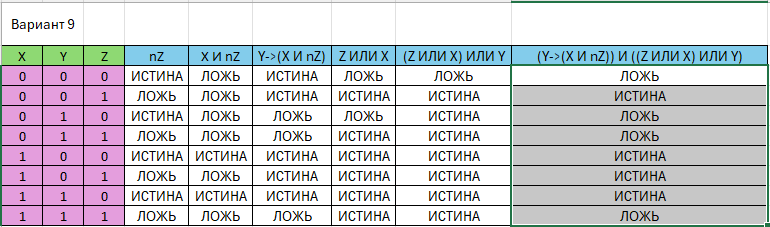
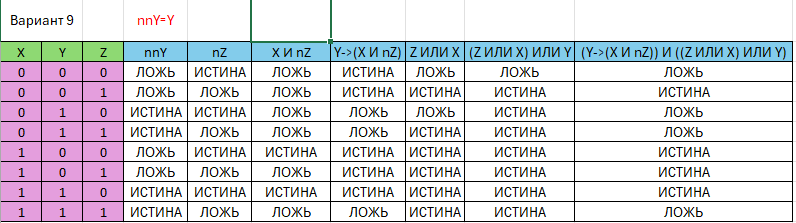
new file Update

diff --git a/1Dz.md b/1Dz.md
@@ -26,7 +26,7 @@ C = основание логарифма и логарифмируемое чи
 
 ![alt text](./img/2.png)
 
-![alt text](./img/3.png)
+![alt text](image.png)
 
 <a href="https://falstad.com/circuit/">сайт</a>
 
